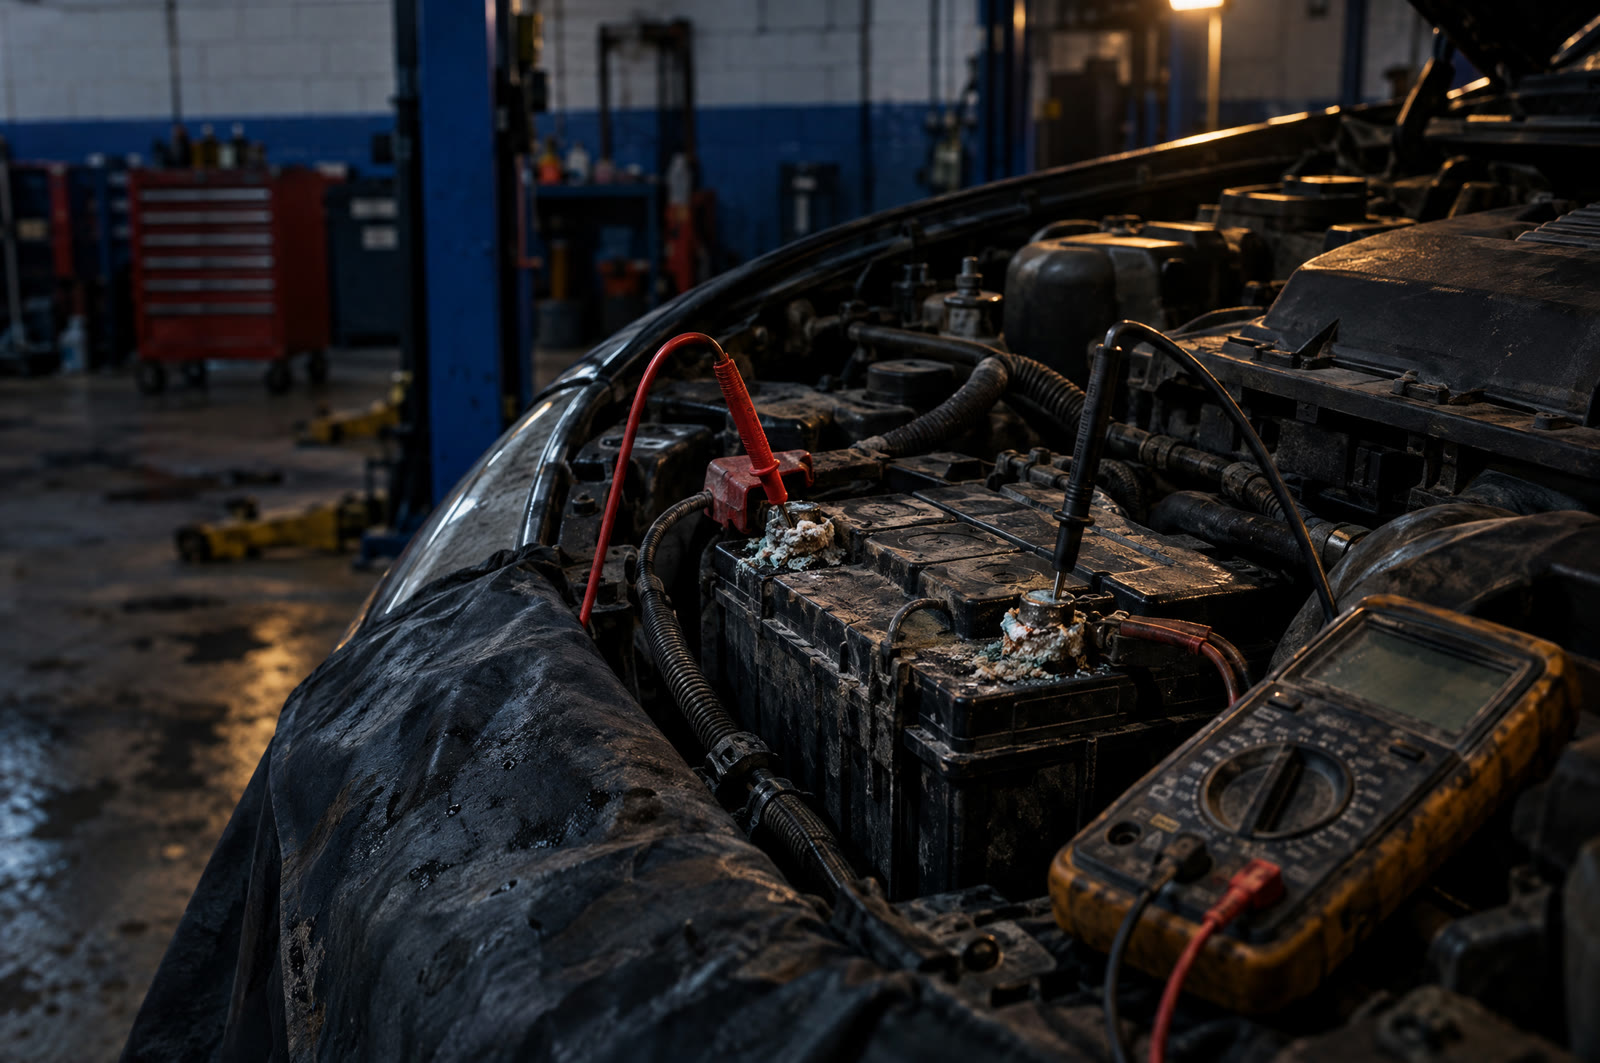
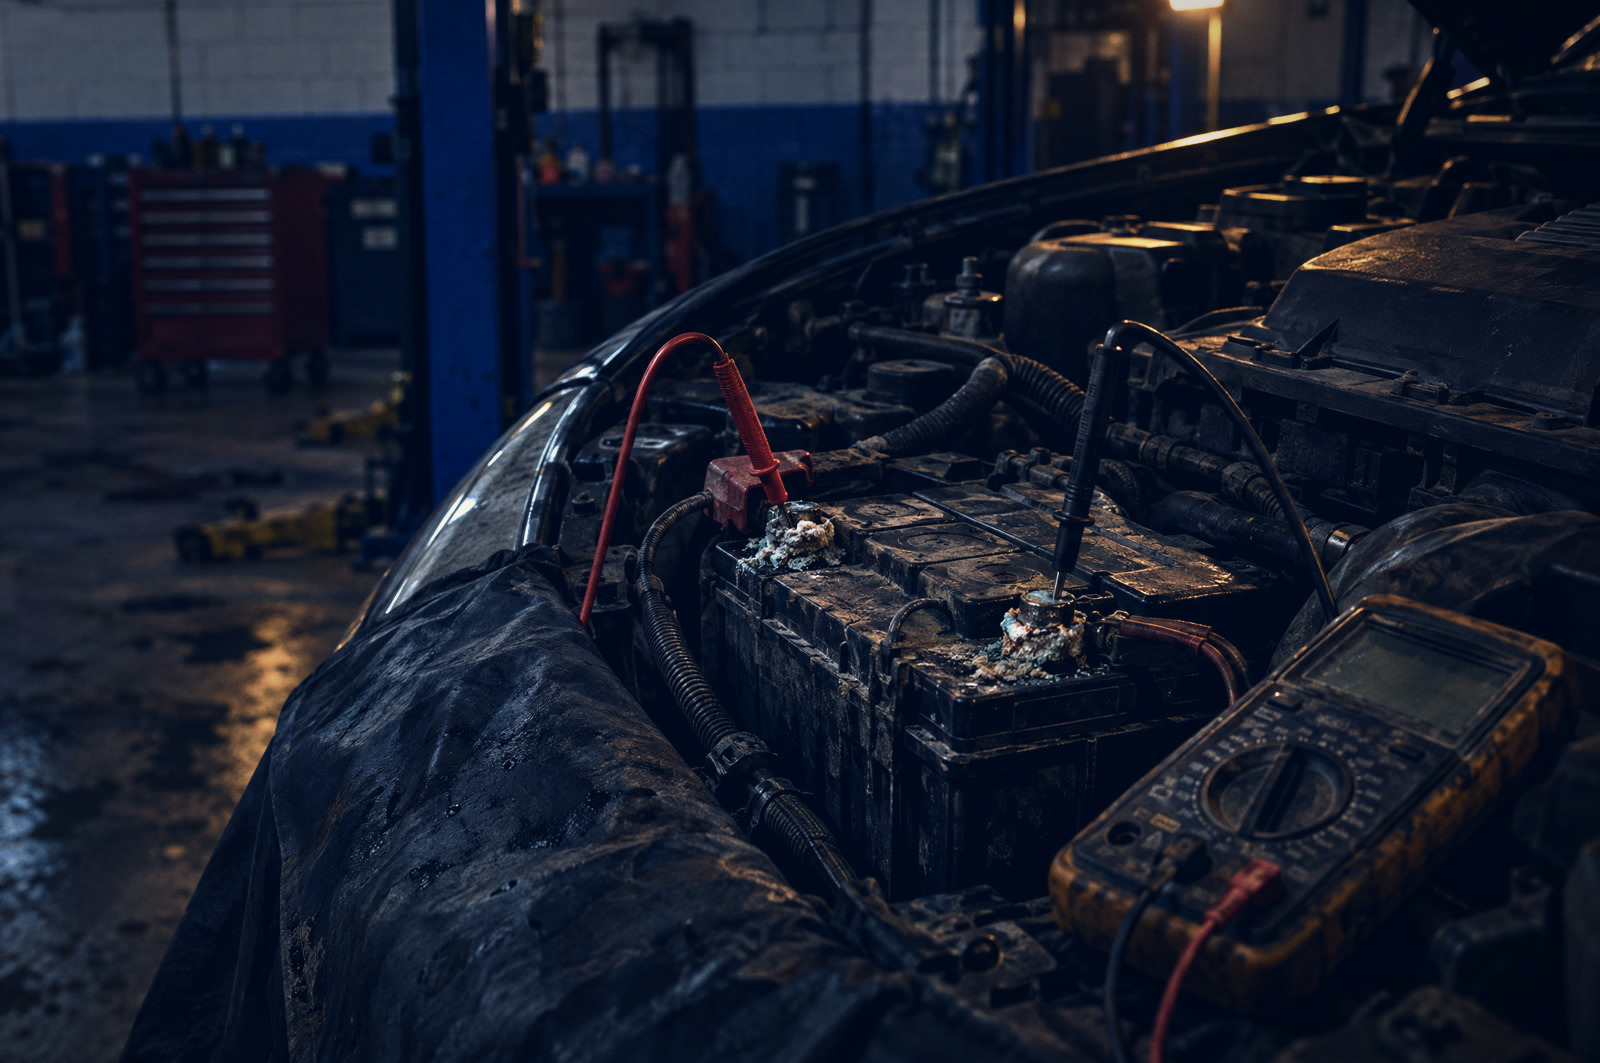
Grade all service photos to theme; clean v3 belts shot; gears photo for transmission replacement
Claude-Session: https://claude.ai/code/session_01GF3wskGP5bVyAsvytnx9kX

diff --git a/index.html b/index.html
@@ -174,35 +174,35 @@
         <div class="svc-group">
           <p class="label svc-group__label">Repair &amp; maintenance</p>
           <ul class="svc-list">
-            <li class="svc-item" data-svc data-name="Oil change &amp; maintenance" data-img="media/services/oil-change.jpg?v=4" data-desc="Fresh oil, filters and fluids, plus a full check-over, done to your car's spec.">
+            <li class="svc-item" data-svc data-name="Oil change &amp; maintenance" data-img="media/services/oil-change.jpg?v=5" data-desc="Fresh oil, filters and fluids, plus a full check-over, done to your car's spec.">
               <button class="svc-row" type="button" aria-expanded="false"><span class="svc-row__index">01</span><span class="svc-row__name">Oil change &amp; maintenance</span><span class="svc-row__arrow" aria-hidden="true">→</span></button>
               <div class="svc-panel"></div>
             </li>
-            <li class="svc-item" data-svc data-name="Brakes" data-img="media/services/brakes.jpg?v=4" data-desc="Pads, rotors, calipers and brake fluid, inspected and replaced to spec.">
+            <li class="svc-item" data-svc data-name="Brakes" data-img="media/services/brakes.jpg?v=5" data-desc="Pads, rotors, calipers and brake fluid, inspected and replaced to spec.">
               <button class="svc-row" type="button" aria-expanded="false"><span class="svc-row__index">02</span><span class="svc-row__name">Brakes</span><span class="svc-row__arrow" aria-hidden="true">→</span></button>
               <div class="svc-panel"></div>
             </li>
-            <li class="svc-item" data-svc data-name="Engine diagnostics &amp; repair" data-img="media/services/engine-diagnostics.jpg?v=4" data-desc="Computerized diagnostics to find the real cause before any repair starts.">
+            <li class="svc-item" data-svc data-name="Engine diagnostics &amp; repair" data-img="media/services/engine-diagnostics.jpg?v=5" data-desc="Computerized diagnostics to find the real cause before any repair starts.">
               <button class="svc-row" type="button" aria-expanded="false"><span class="svc-row__index">03</span><span class="svc-row__name">Engine diagnostics &amp; repair</span><span class="svc-row__arrow" aria-hidden="true">→</span></button>
               <div class="svc-panel"></div>
             </li>
-            <li class="svc-item" data-svc data-name="Electrical &amp; battery" data-img="media/services/electrical-battery.jpg?v=4" data-desc="Battery testing and replacement, charging system, wiring and warning-light faults.">
+            <li class="svc-item" data-svc data-name="Electrical &amp; battery" data-img="media/services/electrical-battery.jpg?v=5" data-desc="Battery testing and replacement, charging system, wiring and warning-light faults.">
               <button class="svc-row" type="button" aria-expanded="false"><span class="svc-row__index">04</span><span class="svc-row__name">Electrical &amp; battery</span><span class="svc-row__arrow" aria-hidden="true">→</span></button>
               <div class="svc-panel"></div>
             </li>
-            <li class="svc-item" data-svc data-name="Steering &amp; suspension" data-img="media/services/steering-suspension.jpg?v=4" data-desc="Shocks, struts, control arms and steering parts for a tight, quiet ride.">
+            <li class="svc-item" data-svc data-name="Steering &amp; suspension" data-img="media/services/steering-suspension.jpg?v=5" data-desc="Shocks, struts, control arms and steering parts for a tight, quiet ride.">
               <button class="svc-row" type="button" aria-expanded="false"><span class="svc-row__index">05</span><span class="svc-row__name">Steering &amp; suspension</span><span class="svc-row__arrow" aria-hidden="true">→</span></button>
               <div class="svc-panel"></div>
             </li>
-            <li class="svc-item" data-svc data-name="A/C &amp; heating" data-img="media/services/ac-heating.jpg?v=4" data-desc="Cooling and heating systems tested, recharged and repaired.">
+            <li class="svc-item" data-svc data-name="A/C &amp; heating" data-img="media/services/ac-heating.jpg?v=5" data-desc="Cooling and heating systems tested, recharged and repaired.">
               <button class="svc-row" type="button" aria-expanded="false"><span class="svc-row__index">06</span><span class="svc-row__name">A/C &amp; heating</span><span class="svc-row__arrow" aria-hidden="true">→</span></button>
               <div class="svc-panel"></div>
             </li>
-            <li class="svc-item" data-svc data-name="Tires &amp; alignment" data-img="media/services/tires-alignment.jpg?v=4" data-desc="Tire sales and installation, with computerized alignment for domestic and foreign cars.">
+            <li class="svc-item" data-svc data-name="Tires &amp; alignment" data-img="media/services/tires-alignment.jpg?v=5" data-desc="Tire sales and installation, with computerized alignment for domestic and foreign cars.">
               <button class="svc-row" type="button" aria-expanded="false"><span class="svc-row__index">07</span><span class="svc-row__name">Tires &amp; alignment</span><span class="svc-row__arrow" aria-hidden="true">→</span></button>
               <div class="svc-panel"></div>
             </li>
-            <li class="svc-item" data-svc data-name="Belts, hoses &amp; cooling" data-img="media/services/belts-hoses-cooling.jpg?v=4" data-desc="Belts and hoses inspected and replaced, cooling system maintained and pressure tested.">
+            <li class="svc-item" data-svc data-name="Belts, hoses &amp; cooling" data-img="media/services/belts-hoses-cooling.jpg?v=5" data-desc="Belts and hoses inspected and replaced, cooling system maintained and pressure tested.">
               <button class="svc-row" type="button" aria-expanded="false"><span class="svc-row__index">08</span><span class="svc-row__name">Belts, hoses &amp; cooling</span><span class="svc-row__arrow" aria-hidden="true">→</span></button>
               <div class="svc-panel"></div>
             </li>
@@ -212,19 +212,19 @@
         <div class="svc-group">
           <p class="label svc-group__label">Engines &amp; drivetrain</p>
           <ul class="svc-list">
-            <li class="svc-item" data-svc data-name="Transmission service" data-img="media/services/transmission-service.jpg?v=4" data-desc="Fluid and filter service and diagnosis to keep your shifts smooth.">
+            <li class="svc-item" data-svc data-name="Transmission service" data-img="media/services/transmission-service.jpg?v=5" data-desc="Fluid and filter service and diagnosis to keep your shifts smooth.">
               <button class="svc-row" type="button" aria-expanded="false"><span class="svc-row__index">09</span><span class="svc-row__name">Transmission service</span><span class="svc-row__arrow" aria-hidden="true">→</span></button>
               <div class="svc-panel"></div>
             </li>
-            <li class="svc-item" data-svc data-name="Engine replacement (reman &amp; used)" data-img="media/services/engine-replacement.jpg?v=4" data-desc="Remanufactured or quality used engines, professionally installed.">
+            <li class="svc-item" data-svc data-name="Engine replacement (reman &amp; used)" data-img="media/services/engine-replacement.jpg?v=5" data-desc="Remanufactured or quality used engines, professionally installed.">
               <button class="svc-row" type="button" aria-expanded="false"><span class="svc-row__index">10</span><span class="svc-row__name">Engine replacement (reman &amp; used)</span><span class="svc-row__arrow" aria-hidden="true">→</span></button>
               <div class="svc-panel"></div>
             </li>
-            <li class="svc-item" data-svc data-name="Transmission replacement" data-img="media/services/transmission-replacement.jpg?v=4" data-desc="Remanufactured or used transmissions, installed and tested.">
+            <li class="svc-item" data-svc data-name="Transmission replacement" data-img="media/services/transmission-replacement.jpg?v=5" data-desc="Remanufactured or used transmissions, installed and tested.">
               <button class="svc-row" type="button" aria-expanded="false"><span class="svc-row__index">11</span><span class="svc-row__name">Transmission replacement</span><span class="svc-row__arrow" aria-hidden="true">→</span></button>
               <div class="svc-panel"></div>
             </li>
-            <li class="svc-item" data-svc data-name="Front &amp; rear differentials" data-img="media/services/differentials.jpg?v=4" data-desc="Differential repair and replacement, front and rear.">
+            <li class="svc-item" data-svc data-name="Front &amp; rear differentials" data-img="media/services/differentials.jpg?v=5" data-desc="Differential repair and replacement, front and rear.">
               <button class="svc-row" type="button" aria-expanded="false"><span class="svc-row__index">12</span><span class="svc-row__name">Front &amp; rear differentials</span><span class="svc-row__arrow" aria-hidden="true">→</span></button>
               <div class="svc-panel"></div>
             </li>
@@ -234,11 +234,11 @@
         <div class="svc-group">
           <p class="label svc-group__label">Body &amp; paint</p>
           <ul class="svc-list">
-            <li class="svc-item" data-svc data-name="Collision repair" data-img="media/services/collision-repair.jpg?v=4" data-desc="Collision repair to get your car back to factory shape.">
+            <li class="svc-item" data-svc data-name="Collision repair" data-img="media/services/collision-repair.jpg?v=5" data-desc="Collision repair to get your car back to factory shape.">
               <button class="svc-row" type="button" aria-expanded="false"><span class="svc-row__index">13</span><span class="svc-row__name">Collision repair</span><span class="svc-row__arrow" aria-hidden="true">→</span></button>
               <div class="svc-panel"></div>
             </li>
-            <li class="svc-item" data-svc data-name="Bodywork &amp; paint" data-img="media/services/bodywork-paint.jpg?v=4" data-desc="Dent and panel work, with paint matched and finished to blend.">
+            <li class="svc-item" data-svc data-name="Bodywork &amp; paint" data-img="media/services/bodywork-paint.jpg?v=5" data-desc="Dent and panel work, with paint matched and finished to blend.">
               <button class="svc-row" type="button" aria-expanded="false"><span class="svc-row__index">14</span><span class="svc-row__name">Bodywork &amp; paint</span><span class="svc-row__arrow" aria-hidden="true">→</span></button>
               <div class="svc-panel"></div>
             </li>
@@ -248,11 +248,11 @@
         <div class="svc-group">
           <p class="label svc-group__label">Care &amp; protection</p>
           <ul class="svc-list">
-            <li class="svc-item" data-svc data-name="Car detailing" data-img="media/services/detailing.jpg?v=4" data-desc="Interior and exterior detailing, from a deep clean to a full polish.">
+            <li class="svc-item" data-svc data-name="Car detailing" data-img="media/services/detailing.jpg?v=5" data-desc="Interior and exterior detailing, from a deep clean to a full polish.">
               <button class="svc-row" type="button" aria-expanded="false"><span class="svc-row__index">15</span><span class="svc-row__name">Car detailing</span><span class="svc-row__arrow" aria-hidden="true">→</span></button>
               <div class="svc-panel"></div>
             </li>
-            <li class="svc-item" data-svc data-name="Undercoating" data-img="media/services/undercoating.jpg?v=4" data-desc="Rust-protective undercoating for all vehicles.">
+            <li class="svc-item" data-svc data-name="Undercoating" data-img="media/services/undercoating.jpg?v=5" data-desc="Rust-protective undercoating for all vehicles.">
               <button class="svc-row" type="button" aria-expanded="false"><span class="svc-row__index">16</span><span class="svc-row__name">Undercoating</span><span class="svc-row__arrow" aria-hidden="true">→</span></button>
               <div class="svc-panel"></div>
             </li>
@@ -364,7 +364,7 @@
 
     <!-- team photos: drop files in media/team/ (see README) -->
     <div class="team">
-      <figure class="photo photo--wide" data-label="Team photo" data-photo><img src="media/team/team-1.jpg?v=4" alt="The Alexandria Car Clinic team at work in the shop" loading="lazy" decoding="async"></figure>
+      <figure class="photo photo--wide" data-label="Team photo" data-photo><img src="media/team/team-1.jpg?v=5" alt="The Alexandria Car Clinic team at work in the shop" loading="lazy" decoding="async"></figure>
     </div>
   </section>
 

diff --git a/tools/build_photos.py b/tools/build_photos.py
@@ -48,6 +48,17 @@ PHOTOS = {
         paste=[(0, 330, 215, 1067), (330, 1000, 580, 1067), (1150, 790, 1420, 905)],
         blur=[(186, 548, 306, 642)],   # Virginia licence plate
         grade=dict(exp=-0.10, contrast=0.50, hi=0.50, sat=1.08, red=0.80, blue=1.4, navy=1.8, warm=1.1, matte=0.8, vig=0.28)),
+    # AI / supplied stills (sources in media/ai-src, not deployed). Darker, desaturated theme grade.
+    "electrical-battery": dict(src="ai-src/electrical-battery-v1", out="services/electrical-battery", grade=dict(exp=-0.05, contrast=0.42, hi=0.45, sat=0.88, red=0.80, blue=1.3, navy=1.5, warm=1.0, matte=0.35, vig=0.30)),
+    "ac-heating": dict(src="ai-src/ac-heating-v1", out="services/ac-heating", grade=dict(exp=-0.05, contrast=0.42, hi=0.45, sat=0.88, red=0.80, blue=1.3, navy=1.5, warm=1.0, matte=0.35, vig=0.30)),
+    "belts-hoses-cooling": dict(src="ai-src/belts-hoses-cooling-v3", out="services/belts-hoses-cooling",
+        grade=dict(exp=-0.15, contrast=0.40, hi=0.50, sat=0.95, blue=1.1, navy=1.2, warm=0.8, matte=0.5, vig=0.30)),
+    "engine-replacement": dict(src="ai-src/engine-replacement-v1", out="services/engine-replacement", grade=dict(exp=-0.05, contrast=0.42, hi=0.45, sat=0.88, red=0.80, blue=1.3, navy=1.5, warm=1.0, matte=0.35, vig=0.30)),
+    "transmission-replacement": dict(src="ai-src/transmission-gears", out="services/transmission-replacement",
+        grade=dict(exp=-0.20, contrast=0.60, hi=0.50, sat=1.0, blue=1.2, navy=1.5, warm=1.4, matte=0.3, vig=0.30)),
+    "collision-repair": dict(src="ai-src/collision-repair-v1", out="services/collision-repair", grade=dict(exp=-0.05, contrast=0.42, hi=0.45, sat=0.88, red=0.80, blue=1.3, navy=1.5, warm=1.0, matte=0.35, vig=0.30)),
+    "detailing": dict(src="ai-src/detailing-v1", out="services/detailing", grade=dict(exp=-0.05, contrast=0.42, hi=0.45, sat=0.88, red=0.80, blue=1.3, navy=1.5, warm=1.0, matte=0.35, vig=0.30)),
+    "undercoating": dict(src="ai-src/undercoating-v1", out="services/undercoating", grade=dict(exp=-0.05, contrast=0.42, hi=0.45, sat=0.88, red=0.80, blue=1.3, navy=1.5, warm=1.0, matte=0.35, vig=0.30)),
 }
 
 
@@ -93,7 +104,7 @@ def blur_boxes(img, boxes, r=22):
 def main(names):
     for n in names or PHOTOS:
         cfg = PHOTOS[n]
-        orig = Image.open(f"{ROOT}/media/originals/{n}.jpg").convert("RGB")
+        orig = Image.open(f"{ROOT}/media/{cfg.get('src', 'originals/' + n)}.jpg").convert("RGB")
         if cfg.get("paste"):
             orig = paste_back(orig, Image.open(f"{ROOT}/media/removed/{n}.jpg").convert("RGB"), cfg["paste"])
         if cfg.get("blur"):

diff --git a/docs/HANDOFF.md b/docs/HANDOFF.md
@@ -16,14 +16,14 @@ Site is built and deployed as a preview. Hero film, lift film, services index, r
 | differentials | done (real) | originals/diff2 (Mazda underside, plate blurred) |
 | bodywork-paint | done (real) | originals/body (hand with sander, NO person, leave it) |
 | team/team-1 (About) | done (real) | originals/oil2 (two men by oil drums) |
-| electrical-battery | done (AI, gpt_image_2_5 2K high, Oct 5) | generated |
-| ac-heating | done (AI, gpt_image_2_5 2K high, Oct 5) | generated |
-| belts-hoses-cooling | done (AI, gpt_image_2_5 2K high, Oct 5) | generated |
-| engine-replacement | done (AI, gpt_image_2_5 2K high, Oct 5) | generated |
-| transmission-replacement | done (AI, gpt_image_2_5 2K high, Oct 5) | generated |
-| collision-repair | done (AI, gpt_image_2_5 2K high, Oct 5) | generated |
-| detailing | done (AI, gpt_image_2_5 2K high, Oct 5) | generated |
-| undercoating | done (AI, gpt_image_2_5 2K high, Oct 5) | generated |
+| electrical-battery | done (AI, graded) | ai-src/<slug>-v1 via build_photos.py |
+| ac-heating | done (AI, graded) | ai-src/<slug>-v1 via build_photos.py |
+| belts-hoses-cooling | done (AI v3, clean look, graded) | ai-src/belts-hoses-cooling-v3 |
+| engine-replacement | done (AI, graded) | ai-src/<slug>-v1 via build_photos.py |
+| transmission-replacement | done (supplied gears photo, graded; confirm licence) | ai-src/transmission-gears |
+| collision-repair | done (AI, graded) | ai-src/<slug>-v1 via build_photos.py |
+| detailing | done (AI, graded) | ai-src/<slug>-v1 via build_photos.py |
+| undercoating | done (AI, graded) | ai-src/<slug>-v1 via build_photos.py |
 
 ## The photo problem (read this)
 Two looks exist and the user dislikes both as they stand:
@@ -38,6 +38,13 @@ Two looks exist and the user dislikes both as they stand:
 Decision from the user: **fill missing services with generated shots in the intense, grimy, cinematic look**, and
 (their call) possibly move the existing real photos to that same look so the set is consistent. Ask which for the
 existing 9 only if unclear; do not ask about the missing 8, just generate.
+
+## Prompt lesson (Oct 5)
+Do NOT use "gritty/grimy/grease/oil-stained" in prompts: gpt_image_2_5 makes it a dumpster. The shop brand is clean, premium,
+professional. The winning prompt is belts-hoses-cooling-v3 (tight close-up, gloss navy bay, warm brass flare upper left, shallow DOF,
+"no dirt, no text"). The v1 AI shots (electrical, ac, engine-replacement, collision, detailing, undercoating) are still grimy under the
+grade; redo them with the v3 prompt style, ONE test first, only with the user's OK.
+Always test ONE image before a batch.
 
 ## Rules the user set (do not break)
 - **Credits are tight** (~410 left). One attempt per image, get it right first time. No low-res tests; 2K max. Use
